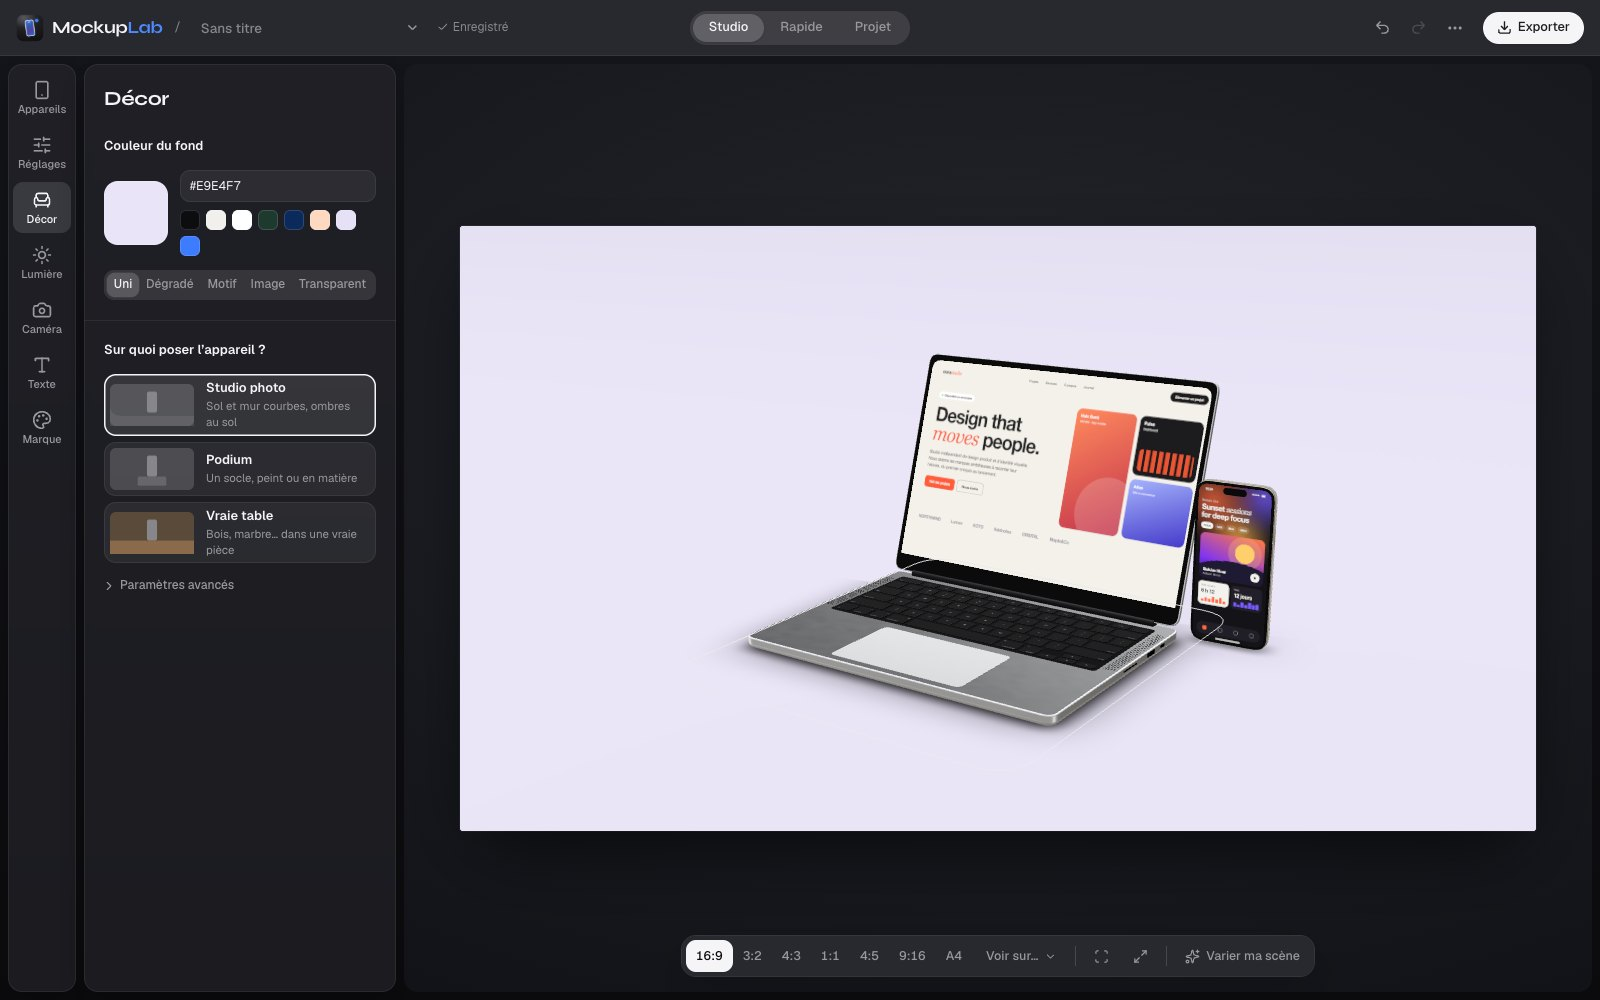
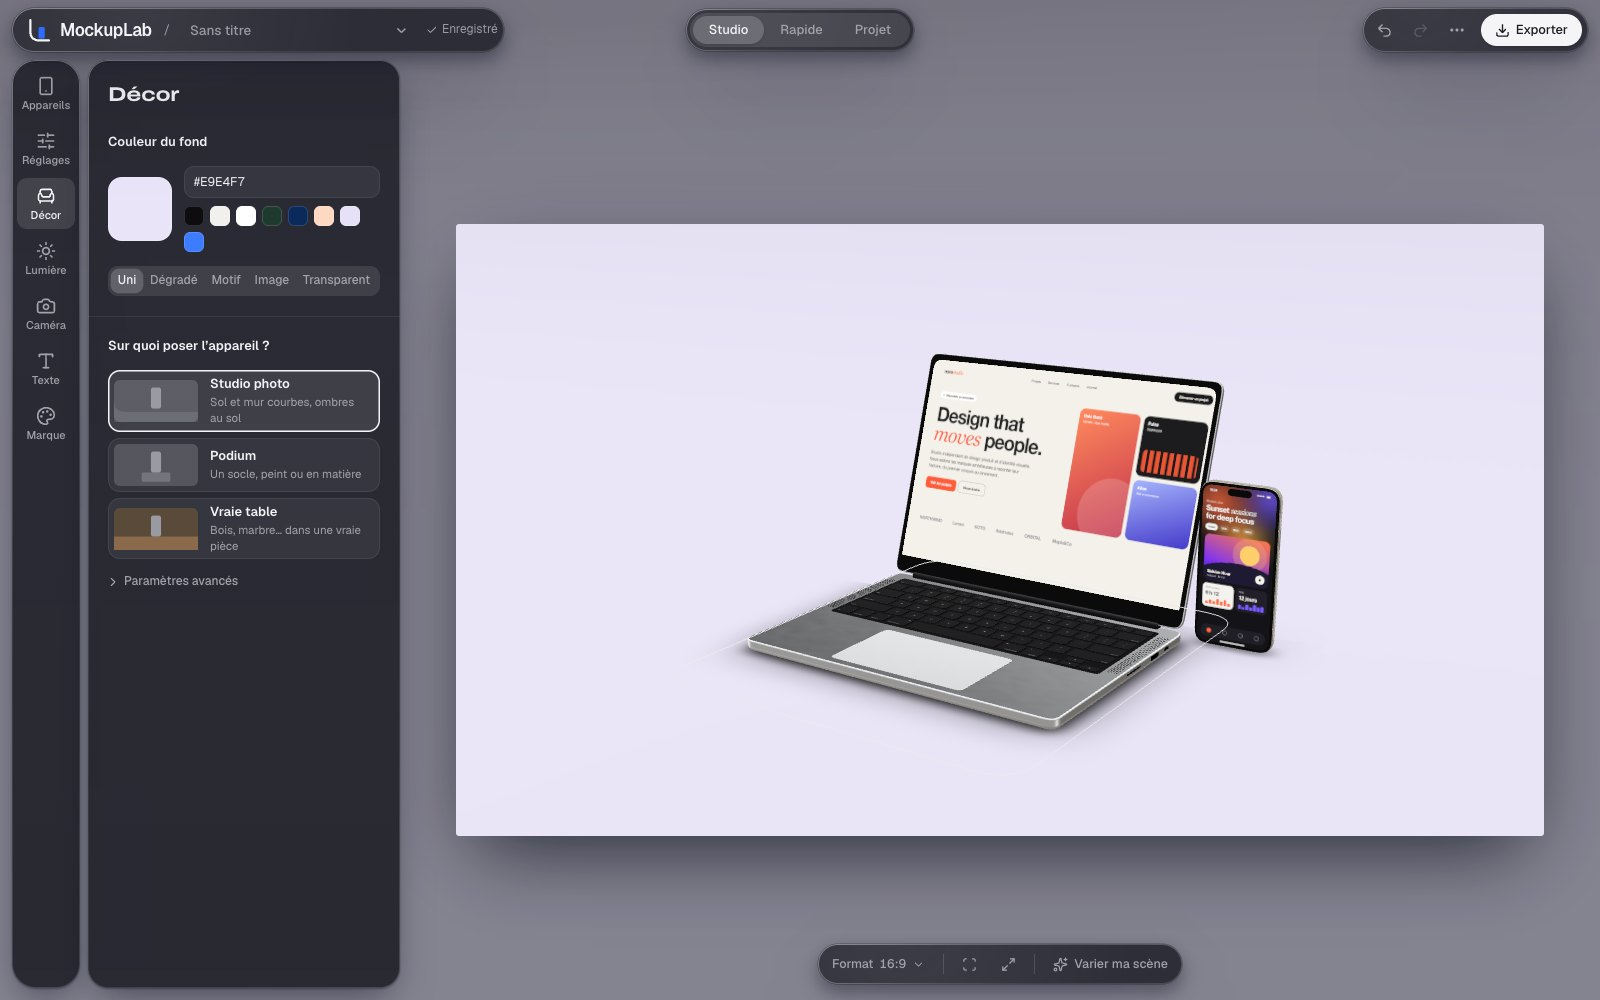
Home: the three modes as a pinned chapter on white (Studio, Rapide, Projet light up one after the other with the scroll, each with a picture of the app at work sliding in; each opens its mode), then a full-screen end « Gratuit. Open source. Chez toi. »; the stage stops drawing once it has cleared it

diff --git a/src/home/Home.tsx b/src/home/Home.tsx
@@ -29,9 +29,9 @@ const shot = (name: string) => `${BASE}showcase/${name}`;
 const REPO = 'https://github.com/lucaleone15/MockupLab';
 
 /** Track heights (vh): the longer the chapter's motion, the longer the scroll. */
-const HEIGHT: Record<StoryChapter, number> = { open: 230, drop: 220, devices: 240, studio: 260, motion: 240, social: 240, clients: 220 };
+const HEIGHT: Record<StoryChapter, number> = { open: 230, drop: 220, devices: 240, studio: 260, motion: 240, social: 240, clients: 220, modes: 300 };
 /** White sections; the others are deep black. */
-const LIGHT = new Set<StoryChapter>(['studio']);
+const LIGHT = new Set<StoryChapter>(['studio', 'modes']);
 /** What phones and reduced motion show under each chapter. */
 const STILL: Record<StoryChapter, string> = {
   open: 'hero-still.webp',
@@ -41,6 +41,7 @@ const STILL: Record<StoryChapter, string> = {
   motion: 'motion-still.webp',
   social: 'social-post.webp',
   clients: 'clients-pack.webp',
+  modes: 'studio-ui.jpg',
 };
 /** The glass labels pointing at the 3D: where they sit on the stage, and when they show. */
 const LABELS: Partial<Record<StoryChapter, { key: I18nKey; style: CSSProperties; from: number; to: number }[]>> = {
@@ -61,6 +62,7 @@ const TITLE: Record<StoryChapter, I18nKey> = {
   motion: 'home.motion.title',
   social: 'home.social.title',
   clients: 'home.clients.title',
+  modes: 'home.modes',
 };
 const LEAD: Record<StoryChapter, I18nKey> = {
   open: 'home.lead',
@@ -70,8 +72,11 @@ const LEAD: Record<StoryChapter, I18nKey> = {
   motion: 'home.motion.lead',
   social: 'home.social.lead',
   clients: 'home.clients.lead',
+  modes: 'home.modes.lead',
 };
 const MODE_SHOTS: Record<Screen, string> = { home: '', studio: 'studio-marble.webp', quick: 'studio-podium.webp', project: 'clients-pack.webp' };
+/** The modes at work (the « modes » chapter). */
+const MODE_SCREENS: Record<Exclude<Screen, 'home'>, string> = { studio: 'studio-ui.jpg', quick: 'mode-quick.jpg', project: 'mode-project.jpg' };
 
 const clamp = (v: number) => Math.min(1, Math.max(0, v));
 /** The empty project autosaved on a first visit is not worth listing. */
@@ -141,11 +146,14 @@ function Track({ id, current, progress }: { id: StoryChapter; current: StoryChap
   const opacity = here ? Math.min(id === 'open' ? 1 : clamp(progress / (pinnedFrom * 0.8)), clamp((1 - pinnedFrom + 0.02 - progress) / 0.08)) : 0;
   const reveal = here ? clamp((progress - 0.08) / 0.42) : passed ? 1 : 0;
   return (
-    <section data-chapter-id={id} data-testid={id === 'open' ? 'home-hero' : `home-${id}`} className="pointer-events-none relative" style={{ height: `${HEIGHT[id]}vh` }}>
+    <section id={id === 'modes' ? 'home-modes' : undefined} data-chapter-id={id} data-testid={id === 'open' ? 'home-hero' : `home-${id}`} className="pointer-events-none relative" style={{ height: `${HEIGHT[id]}vh` }}>
       {Array.from({ length: SLICES }, (_, i) => (
         <div key={i} data-slice={i} data-chapter={id} aria-hidden className="pointer-events-none absolute inset-x-0" style={{ top: `${(i * 100) / SLICES}%`, height: `${100 / SLICES}%` }} />
       ))}
       <div className={cx('pointer-events-none sticky top-0 flex h-[100dvh] flex-col items-center px-6 transition-opacity duration-200', light ? 'text-[#1d1d1f]' : 'text-white')} style={{ opacity }}>
+        {id === 'modes' ? (
+          <ModesStory progress={here ? progress : passed ? 1 : 0} />
+        ) : (
         <div className={id === 'open' ? 'pt-[17vh]' : 'pt-[11vh]'}>
           {id === 'open' ? (
             <Opening light={light} reveal={Math.max(reveal, 0.25)} />
@@ -166,6 +174,7 @@ function Track({ id, current, progress }: { id: StoryChapter; current: StoryChap
             </div>
           )}
         </div>
+        )}
         {/* glass labels pointing at the 3D */}
         {here &&
           LABELS[id]?.map((l) => (
@@ -182,6 +191,61 @@ function Track({ id, current, progress }: { id: StoryChapter; current: StoryChap
           ))}
       </div>
     </section>
+  );
+}
+
+/**
+ * « Trois façons de créer », told one after the other: Studio, Rapide, Projet
+ * light up with the scroll, and the picture of the lit one slides in.
+ */
+function ModesStory({ progress }: { progress: number }) {
+  const { t } = useT();
+  const pinned = 50 / HEIGHT.modes;
+  const k = clamp((progress - pinned) / (1 - 2 * pinned));
+  const lit = Math.min(2, Math.floor(k * 3));
+  return (
+    <div className="flex h-full w-full max-w-[1160px] flex-col items-center gap-10 pt-[10vh]">
+      <div className="flex flex-col items-center gap-4 text-center">
+        <h2 className="font-display text-balance text-[clamp(38px,5vw,72px)] font-extrabold leading-[1]">{t('home.modes')}</h2>
+        <p className="max-w-[560px] text-pretty text-[19px] leading-[1.5] text-[#1d1d1f]/70">{t('home.modes.lead')}</p>
+      </div>
+      <div className="grid w-full flex-1 grid-cols-[minmax(0,0.85fr)_minmax(0,1.5fr)] items-start gap-12 pb-[8vh]">
+        <ol className="flex flex-col gap-2">
+          {(['studio', 'quick', 'project'] as const).map((m, i) => (
+            <li key={m}>
+              <button
+                type="button"
+                data-testid={`mode-card-${m}`}
+                data-lit={i === lit}
+                disabled={!AVAILABLE[m]}
+                onClick={() => navigate(m)}
+                className={cx('pointer-events-auto flex w-full flex-col gap-1.5 rounded-[18px] px-5 py-4 text-left transition-[opacity,background-color] duration-500 ease-out hover:bg-black/[0.04]', i === lit ? 'opacity-100' : 'opacity-35')}
+              >
+                <span className="flex items-center gap-2.5">
+                  <span className={cx('h-6 w-1 rounded-full transition-colors duration-500', i === lit ? 'bg-[#2f6bff]' : 'bg-black/15')} />
+                  <span className="font-display text-[30px] font-extrabold leading-none">{t(`screen.${m}` as I18nKey)}</span>
+                  {m === 'studio' && <span className="rounded-full bg-[#2f6bff]/12 px-2.5 py-0.5 text-[12px] font-semibold text-[#2f6bff]">{t('home.main')}</span>}
+                </span>
+                <span className="pl-[18px] text-[16px] leading-snug text-[#55565e]">{t(`mode.${m}.role` as I18nKey)}</span>
+              </button>
+            </li>
+          ))}
+        </ol>
+        <div className="relative aspect-[16/10] w-full">
+          {(['studio', 'quick', 'project'] as const).map((m, i) => (
+            <img
+              key={m}
+              data-testid="mode-picture"
+              src={shot(MODE_SCREENS[m])}
+              alt={t(`screen.${m}` as I18nKey)}
+              className="absolute inset-0 h-full w-full rounded-[22px] object-cover shadow-[0_1px_2px_rgb(20_30_70/0.08),0_40px_90px_-30px_rgb(20_30_70/0.45)] transition-[opacity,transform] duration-700 ease-out"
+              style={{ opacity: i === lit ? 1 : 0, transform: `translateY(${i === lit ? 0 : i < lit ? -24 : 24}px) scale(${i === lit ? 1 : 0.98})` }}
+              draggable={false}
+            />
+          ))}
+        </div>
+      </div>
+    </div>
   );
 }
 
@@ -213,7 +277,12 @@ function PlainStory() {
         const light = LIGHT.has(id);
         return (
           <section key={id} data-chapter-id={id} data-testid={id === 'open' ? 'home-hero' : `home-${id}`} className={cx('flex flex-col items-center gap-8 px-6 py-20 text-center', light ? 'bg-[#f5f5f7] text-[#1d1d1f]' : 'bg-black text-white')}>
-            {id === 'open' ? (
+            {id === 'modes' ? (
+              <div id="home-modes" className="flex w-full max-w-[1240px] flex-col gap-8">
+                <h2 className="font-display text-balance text-[clamp(34px,8vw,56px)] font-extrabold leading-[1.02]">{t('home.modes')}</h2>
+                <Modes />
+              </div>
+            ) : id === 'open' ? (
               <Opening light={light} reveal={1} />
             ) : (
               <>
@@ -221,7 +290,7 @@ function PlainStory() {
                 <WordReveal text={t(LEAD[id])} reveal={1} light={light} className="max-w-[560px] text-pretty text-[17px] leading-[1.55]" />
               </>
             )}
-            <img src={shot(STILL[id])} alt="" loading="lazy" className="max-h-[52vh] w-full max-w-[880px] rounded-[22px] object-cover" draggable={false} />
+            {id !== 'modes' && <img src={shot(STILL[id])} alt="" loading="lazy" className="max-h-[52vh] w-full max-w-[880px] rounded-[22px] object-cover" draggable={false} />}
           </section>
         );
       })}
@@ -316,16 +385,8 @@ export function Home() {
         <PlainStory />
       )}
 
-      {/* the three ways in, on white */}
-      <section id="home-modes" data-testid="home-modes" data-theme="light" className="scroll-mt-6 bg-[#f5f5f7] px-6 py-28 text-[#1d1d1f] lg:px-10">
-        <div className="mx-auto flex max-w-[1240px] flex-col gap-10">
-          <h2 className="font-display text-center text-[clamp(32px,4vw,56px)] font-extrabold leading-[1.02]">{t('home.modes')}</h2>
-          <Modes />
-        </div>
-      </section>
-
       {/* the end, on black */}
-      <section data-testid="home-end" className="flex flex-col items-center gap-6 bg-black px-6 pb-32 pt-28 text-center text-white">
+      <section data-testid="home-end" className="flex min-h-[100dvh] flex-col items-center justify-center gap-6 bg-black px-6 py-28 text-center text-white">
         <h2 className="font-display text-balance text-[clamp(40px,6vw,88px)] font-extrabold leading-[0.98]">{t('home.end.title')}</h2>
         <p className="max-w-[560px] text-pretty text-[19px] leading-[1.5] text-white/70">{t(desktop ? 'home.end.leadDesktop' : 'home.end.lead')}</p>
         <div className="mt-3 flex flex-wrap items-center justify-center gap-3">

diff --git a/src/home/HeroStage.tsx b/src/home/HeroStage.tsx
@@ -99,6 +99,8 @@ export const FRAMES: Record<StoryChapter, (p: number) => Frame> = {
     const turn = ease(ramp(p, 0.1, 0.4));
     return { actors: { phone: { x: 0, z: 10, yaw: mix(-1.1, 0, turn), s: 1.12 } }, camera: [0, 12, 68, 0, 8.5, 10], feed: ease(ramp(p, 0.45, 0.85)) };
   },
+  // the modes are told with pictures of the app: the stage stays empty, on white
+  modes: () => ({ actors: {}, camera: [2, 18, 80, 2, 10, 0] }),
   clients: (p) => {
     const e = ease(ramp(p, 0.15, 0.8));
     return {
@@ -327,6 +329,14 @@ function Story({ chapter, progress, light }: { chapter: StoryChapter; progress: 
 export default function HeroStage({ className, chapter, progress, light, eventSource }: { className?: string; chapter: StoryChapter; progress: number; light: boolean; eventSource?: RefObject<HTMLElement | null> }) {
   const wrap = useRef<HTMLDivElement>(null);
   const [visible, setVisible] = useState(true);
+  // a chapter without devices (the modes): the stage clears them, then stops drawing
+  const [empty, setEmpty] = useState(false);
+  const emptyChapter = Object.keys(FRAMES[chapter](0.5).actors).length === 0;
+  useEffect(() => {
+    if (!emptyChapter) return setEmpty(false);
+    const id = setTimeout(() => setEmpty(true), 1500);
+    return () => clearTimeout(id);
+  }, [emptyChapter]);
   useEffect(() => {
     const el = wrap.current;
     if (!el) return;
@@ -339,7 +349,7 @@ export default function HeroStage({ className, chapter, progress, light, eventSo
       <Canvas
         shadows
         dpr={[1, 2]}
-        frameloop={visible ? 'always' : 'never'}
+        frameloop={visible && !empty ? 'always' : 'never'}
         // measured without scroll listeners: the stage is sticky, its size only changes with the window
         resize={{ scroll: false }}
         camera={{ position: [0, 26, 96], fov: 30, near: 1, far: 2000 }}

diff --git a/src/home/useStoryProgress.ts b/src/home/useStoryProgress.ts
@@ -1,7 +1,7 @@
 import { useEffect, useState, type RefObject } from 'react';
 
-export type StoryChapter = 'open' | 'drop' | 'devices' | 'studio' | 'motion' | 'social' | 'clients';
-export const STORY: StoryChapter[] = ['open', 'drop', 'devices', 'studio', 'motion', 'social', 'clients'];
+export type StoryChapter = 'open' | 'drop' | 'devices' | 'studio' | 'motion' | 'social' | 'clients' | 'modes';
+export const STORY: StoryChapter[] = ['open', 'drop', 'devices', 'studio', 'motion', 'social', 'clients', 'modes'];
 
 /** Slices per chapter: the progress moves in steps of 2 %, eased by the 3D. */
 export const SLICES = 50;

diff --git a/src/i18n/en.ts b/src/i18n/en.ts
@@ -419,6 +419,8 @@ export const en: Record<keyof typeof fr, string> = {
   'home.label.device': 'Your design, in 4K',
   'home.label.account': 'Your account, your caption',
   'home.label.video': 'MP4 or GIF, up to 4K',
+  'home.dot.modes': 'Modes',
+  'home.modes.lead': 'From the finest tuning to a client\'s whole pack.',
   'home.openStudio': 'Open the Studio',
   'home.otherModes': 'or pick another mode',
   'home.main': 'Main mode',

diff --git a/src/i18n/fr.ts b/src/i18n/fr.ts
@@ -417,6 +417,8 @@ export const fr = {
   'home.label.device': 'Ton design, en 4K',
   'home.label.account': 'Ton compte, ta légende',
   'home.label.video': 'MP4 ou GIF, jusqu’en 4K',
+  'home.dot.modes': 'Modes',
+  'home.modes.lead': 'Du réglage le plus fin au pack complet d\'un client.',
   'home.openStudio': 'Ouvrir le Studio',
   'home.otherModes': 'ou choisis un autre mode',
   'home.main': 'Mode principal',
